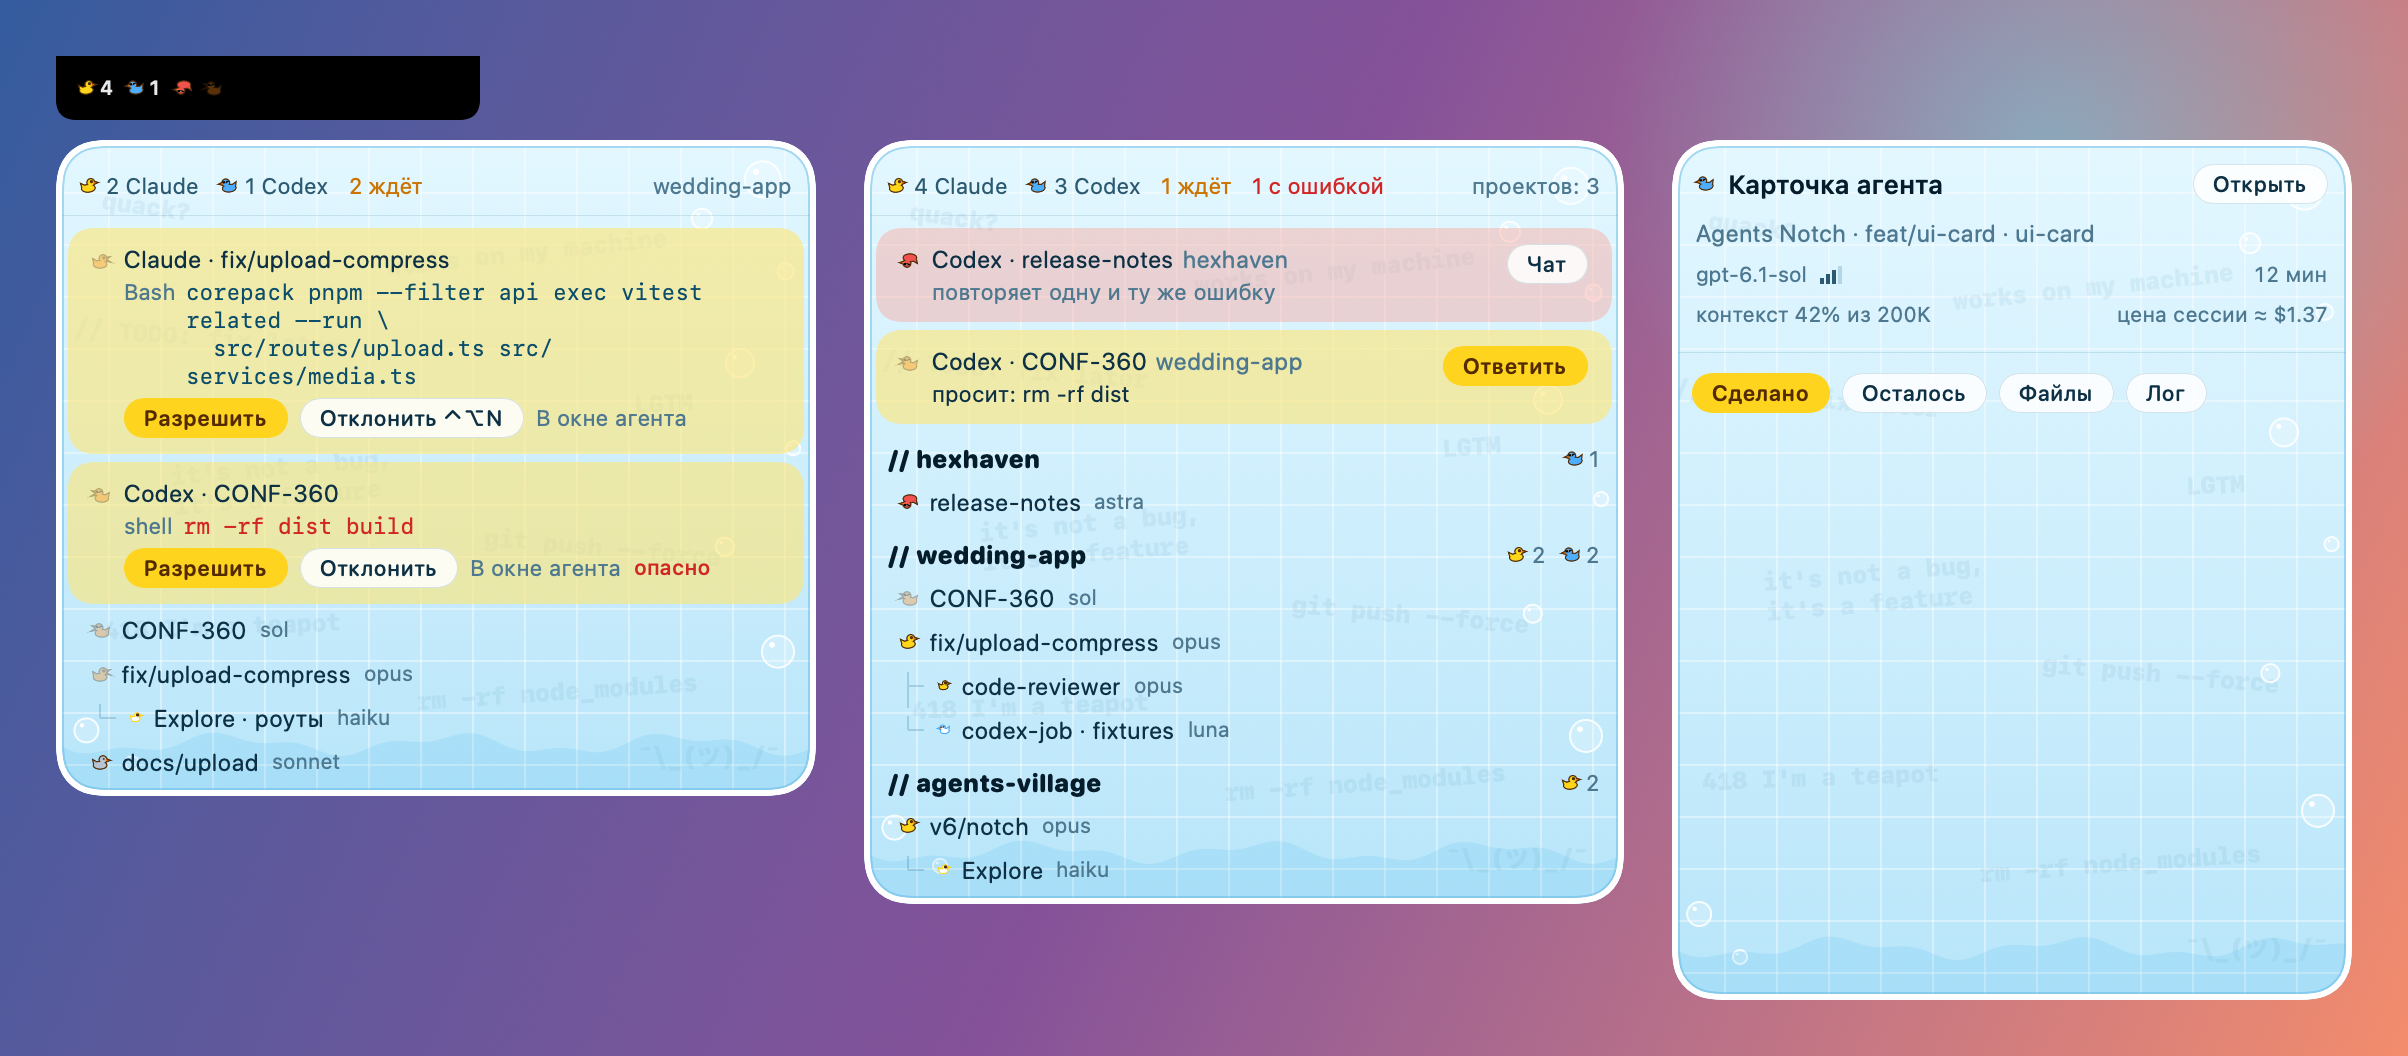
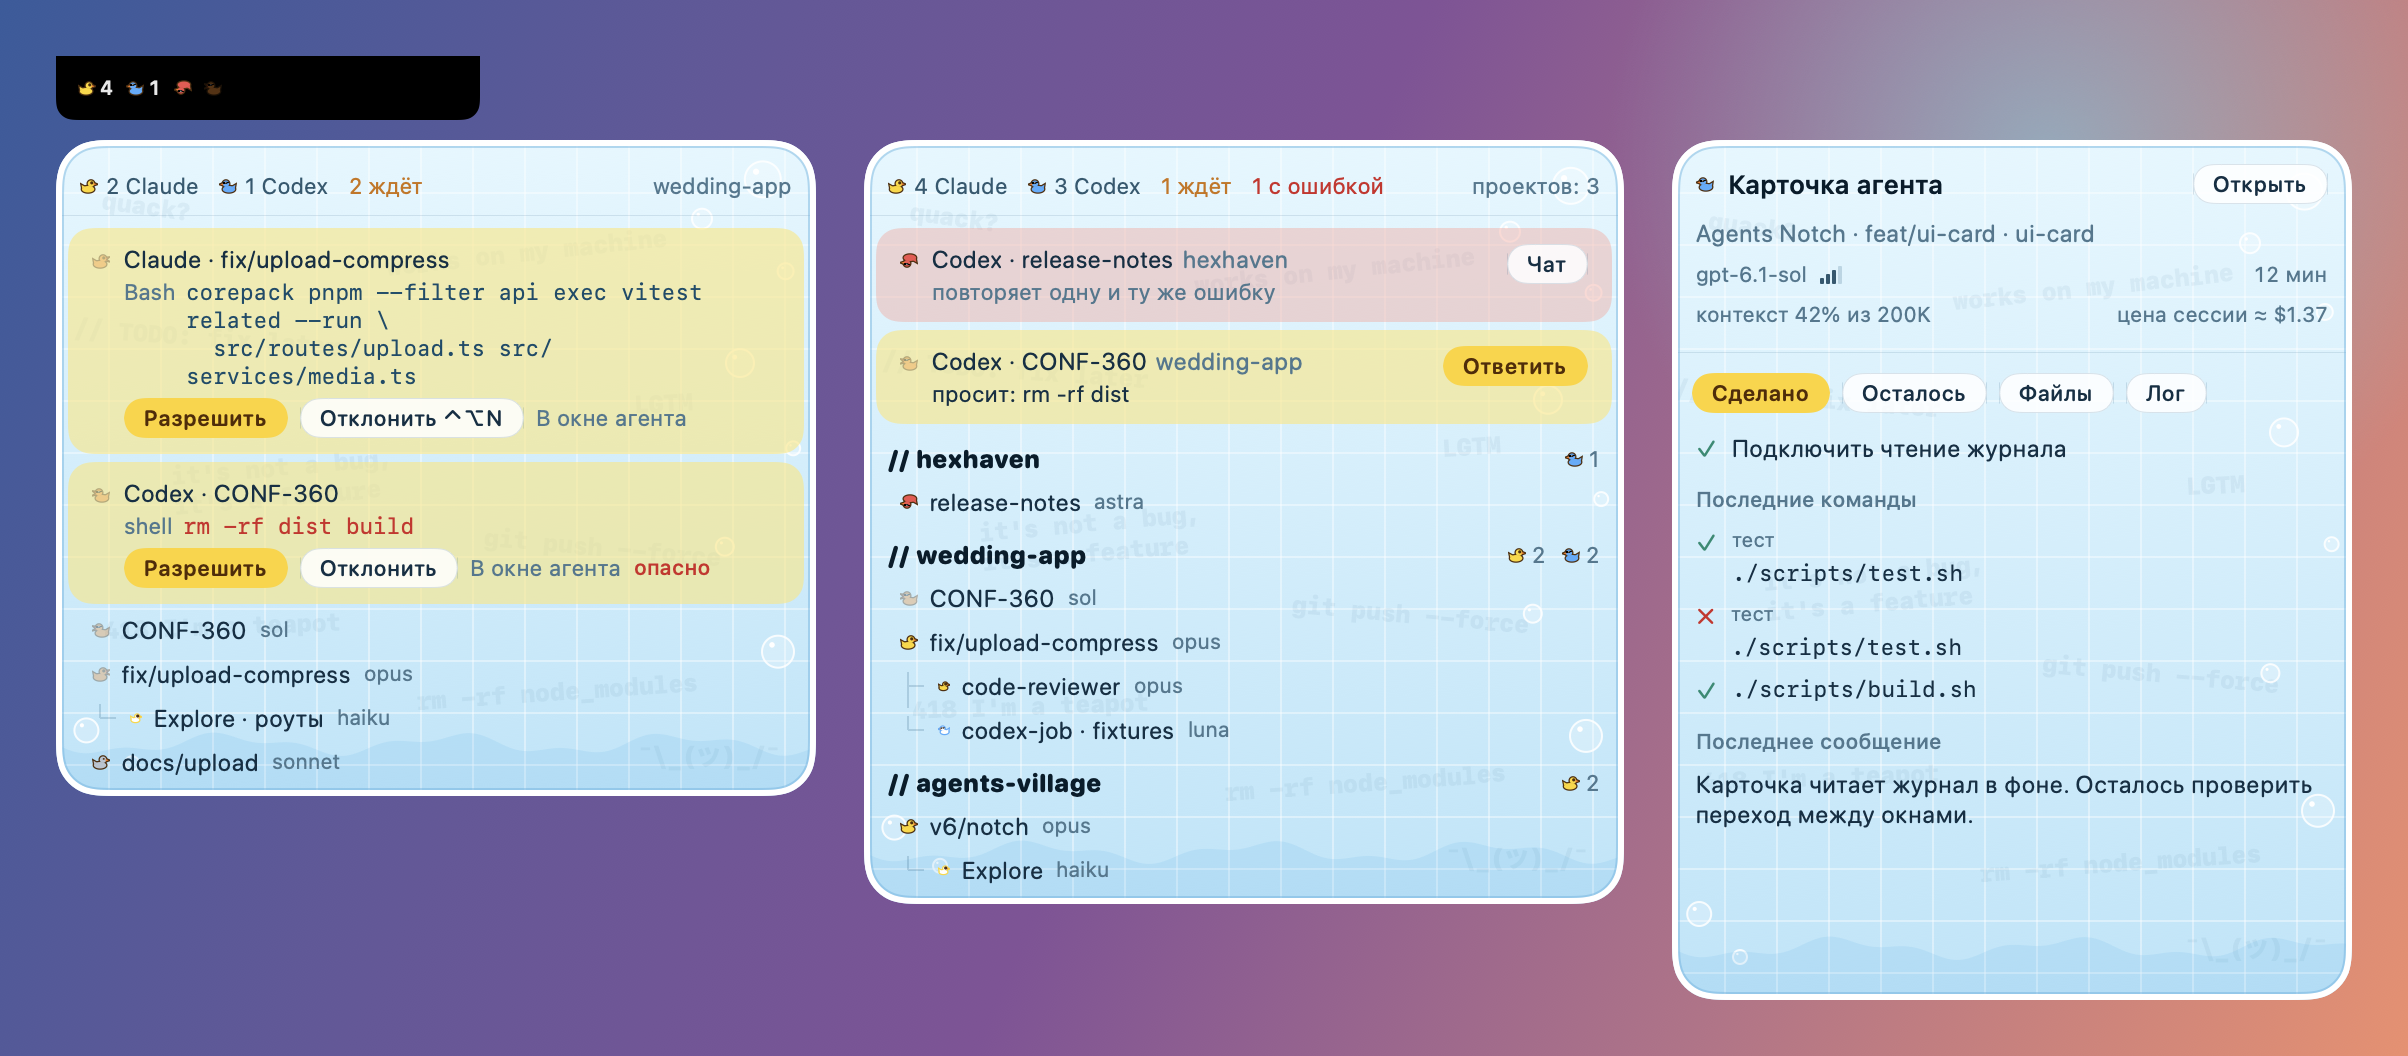
fix(snapshot): theme shots render through a window so the card's tab body shows
(cherry picked from commit 0edef2dbf8b011d9ce090ed5c511dcee4a4e4205)

diff --git a/Sources/AgentsNotch/Snapshot.swift b/Sources/AgentsNotch/Snapshot.swift
@@ -104,7 +104,8 @@ enum Snapshot {
             .background(ThemeWallpaper())
             .environmentObject(settings)
             .environment(\.themeSnapshot, true)
-            ok = write(scene, to: url.appendingPathComponent("theme-\(id.rawValue).png")) && ok
+            // The card's tab body sits in a ScrollView, which ImageRenderer leaves blank, so this goes through a window.
+            ok = host(scene, to: url.appendingPathComponent("theme-\(id.rawValue).png")) && ok
         }
         settings.theme = .terminal
         ok = write(ThemeMarksGrid().environmentObject(settings).environment(\.themeSnapshot, true),
@@ -121,9 +122,14 @@ enum Snapshot {
              size: NSSize(width: 340, height: 480), to: URL(fileURLWithPath: file))
     }
 
-    /// Forms and lists are AppKit views that ImageRenderer cannot draw, so this snapshot goes through a real window.
-    private static func host<V: View>(_ scene: V, size: NSSize, to url: URL) -> Bool {
-        let view = NSHostingView(rootView: scene.frame(width: size.width, height: size.height))
+    /// Forms, lists and scroll views are AppKit views that ImageRenderer cannot draw, so this snapshot goes through a real window.
+    /// Without a size the scene keeps its own fitting size.
+    private static func host<V: View>(_ scene: V, size: NSSize? = nil, to url: URL) -> Bool {
+        let view: NSView
+        if let size { view = NSHostingView(rootView: scene.frame(width: size.width, height: size.height)) }
+        else { view = NSHostingView(rootView: scene) }
+        let size = size ?? view.fittingSize
+        view.frame = NSRect(origin: .zero, size: size)
         let window = NSWindow(contentRect: NSRect(origin: .zero, size: size), styleMask: [.borderless], backing: .buffered, defer: false)
         window.appearance = NSAppearance(named: .aqua)
         window.contentView = view
